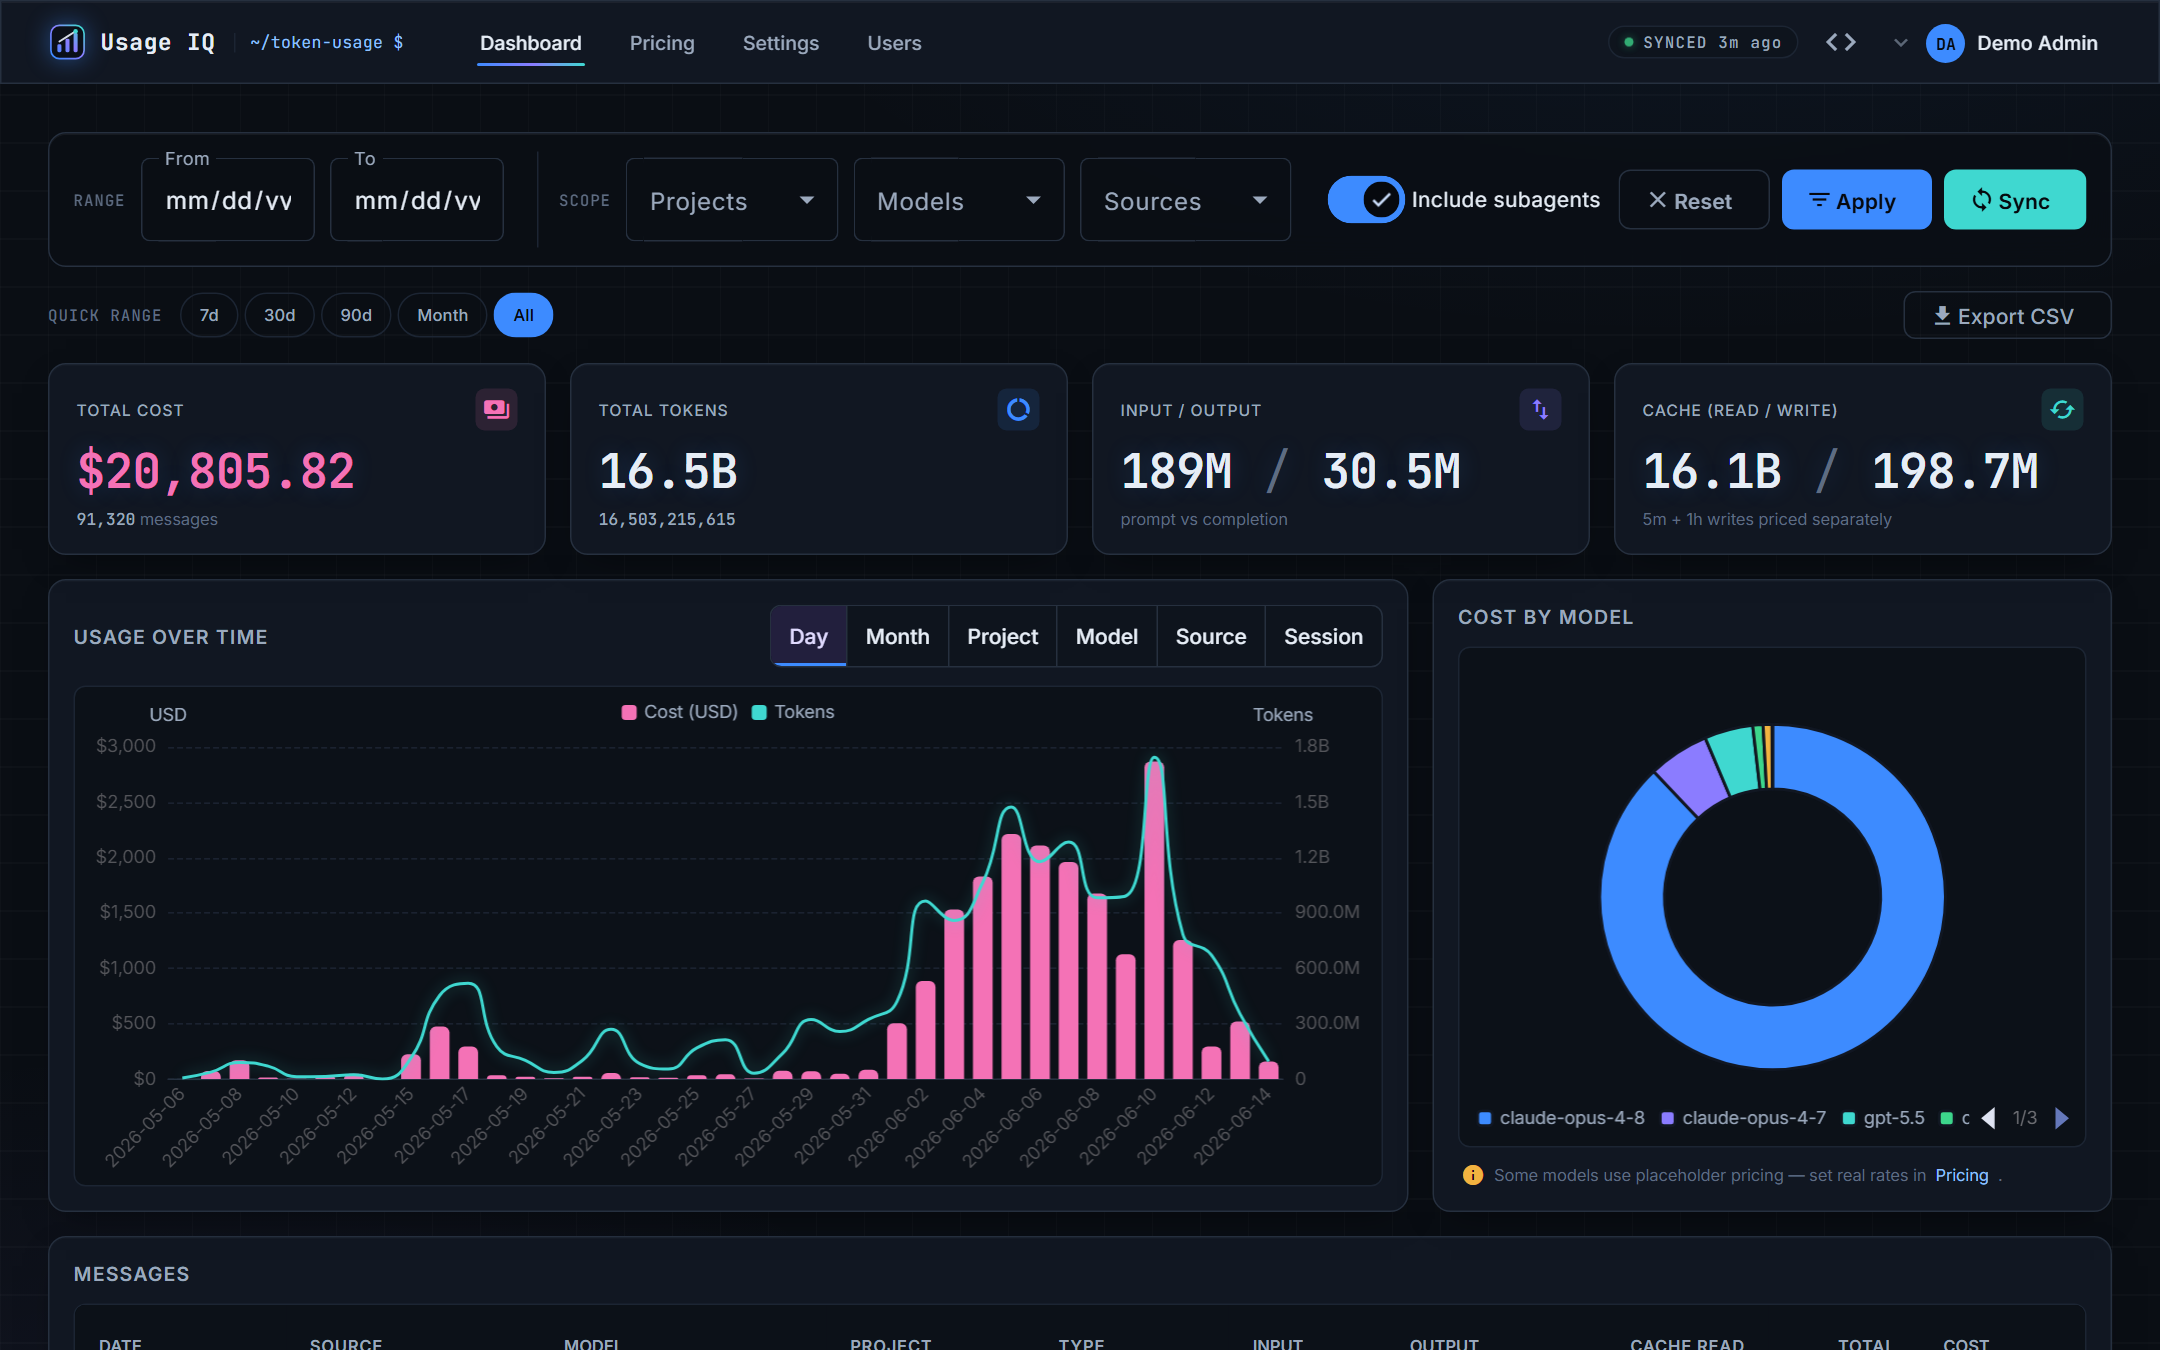
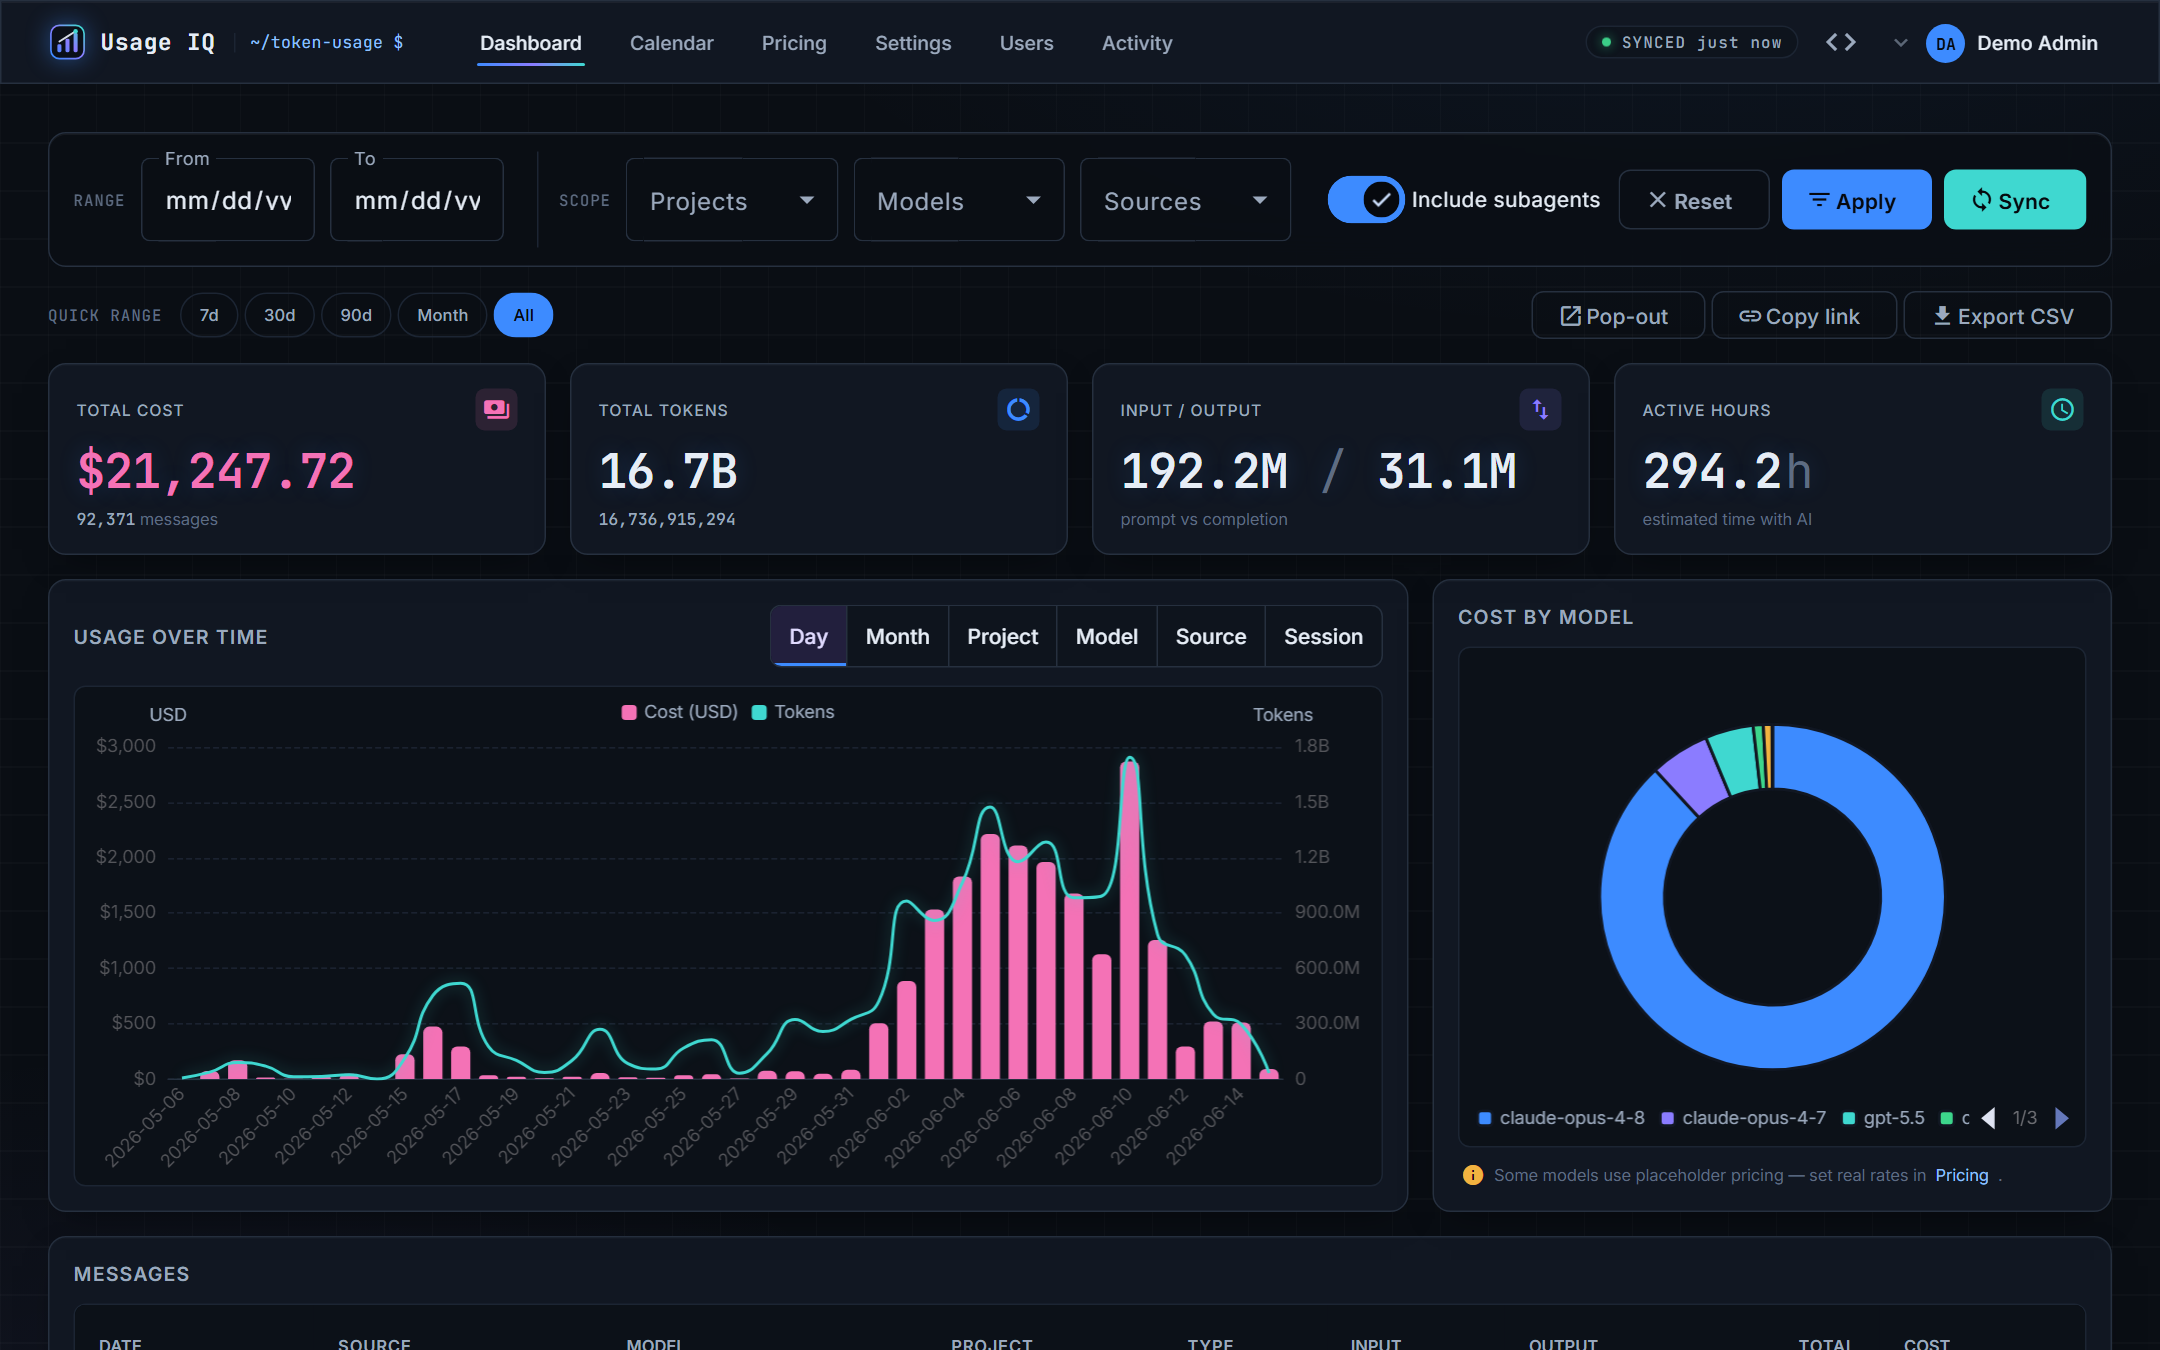
Dashboard: show Active hours, drop cache read/write
Replace the "Cache (read / write)" KPI card with an "Active hours" card
(estimated engagement time for the current filter, summed from the calendar
endpoint via gap-based sessionization) and remove the cache-read column from the
messages table. Reuses /api/usage/calendar — no backend change.

diff --git a/src/Web/src/app/features/dashboard/dashboard.html b/src/Web/src/app/features/dashboard/dashboard.html
@@ -127,14 +127,13 @@
       <div class="kpi-sub">prompt vs completion</div>
     </article>
 
-    <article class="kpi panel kpi-cache">
+    <article class="kpi panel kpi-active">
       <div class="kpi-top">
-        <span class="kpi-label">Cache (read / write)</span>
-        <span class="kpi-icon"><mat-icon>cached</mat-icon></span>
+        <span class="kpi-label">Active hours</span>
+        <span class="kpi-icon"><mat-icon>schedule</mat-icon></span>
       </div>
-      <div class="kpi-value mono-num">{{ s.total.cacheReadTokens | compact }} <span class="dim">/</span>
-        {{ (s.total.cacheCreation5mTokens + s.total.cacheCreation1hTokens) | compact }}</div>
-      <div class="kpi-sub">5m + 1h writes priced separately</div>
+      <div class="kpi-value mono-num">{{ activeHours() | number: '1.0-1' }}<span class="dim">h</span></div>
+      <div class="kpi-sub">estimated time with AI</div>
     </article>
   </div>
 }
@@ -204,10 +203,6 @@
         <ng-container matColumnDef="outputTokens">
           <th mat-header-cell *matHeaderCellDef mat-sort-header class="num">Output</th>
           <td mat-cell *matCellDef="let r" class="num numeric">{{ r.outputTokens | number }}</td>
-        </ng-container>
-        <ng-container matColumnDef="cacheReadTokens">
-          <th mat-header-cell *matHeaderCellDef class="num">Cache read</th>
-          <td mat-cell *matCellDef="let r" class="num numeric">{{ r.cacheReadTokens | compact }}</td>
         </ng-container>
         <ng-container matColumnDef="totalTokens">
           <th mat-header-cell *matHeaderCellDef class="num">Total</th>

diff --git a/src/Web/src/app/features/dashboard/dashboard.ts b/src/Web/src/app/features/dashboard/dashboard.ts
@@ -72,7 +72,11 @@ export class Dashboard {
   readonly sort = signal('timestamp');
   readonly desc = signal(true);
 
-  readonly displayedColumns = ['localDate', 'source', 'model', 'projectName', 'sidechain', 'inputTokens', 'outputTokens', 'cacheReadTokens', 'totalTokens', 'costUsd'];
+  readonly displayedColumns = ['localDate', 'source', 'model', 'projectName', 'sidechain', 'inputTokens', 'outputTokens', 'totalTokens', 'costUsd'];
+
+  // Estimated active engagement time (gap-based) for the current filter, summed from the calendar.
+  readonly activeMinutes = signal(0);
+  readonly activeHours = computed(() => this.activeMinutes() / 60);
 
   constructor() {
     this.hydrateFromUrl();
@@ -201,8 +205,14 @@ export class Dashboard {
     forkJoin({
       summary: this.api.summary(this.filter(), this.groupBy()),
       records: this.api.records(this.filter(), this.page(), this.pageSize(), this.sort(), this.desc()),
+      calendar: this.api.calendar(this.filter()),
     }).subscribe({
-      next: r => { this.summary.set(r.summary); this.records.set(r.records); this.loading.set(false); },
+      next: r => {
+        this.summary.set(r.summary);
+        this.records.set(r.records);
+        this.activeMinutes.set(r.calendar.reduce((a, d) => a + d.activeMinutes, 0));
+        this.loading.set(false);
+      },
       error: () => { this.loading.set(false); this.snack.open('Failed to load data — is the API running?', 'Dismiss', { duration: 5000 }); },
     });
   }

diff --git a/src/Web/src/app/features/dashboard/dashboard.scss b/src/Web/src/app/features/dashboard/dashboard.scss
@@ -238,7 +238,7 @@ mat-progress-bar {
 .kpi-cost   { --accent: var(--tech-accent-magenta); }
 .kpi-tokens { --accent: var(--tech-accent); }
 .kpi-io     { --accent: var(--tech-accent-2); }
-.kpi-cache  { --accent: var(--tech-accent-cyan); }
+.kpi-active { --accent: var(--tech-accent-cyan); }
 
 /* ═══════════════════════════════════════════════════════════════
    Charts — opaque panels with sunken chart wells